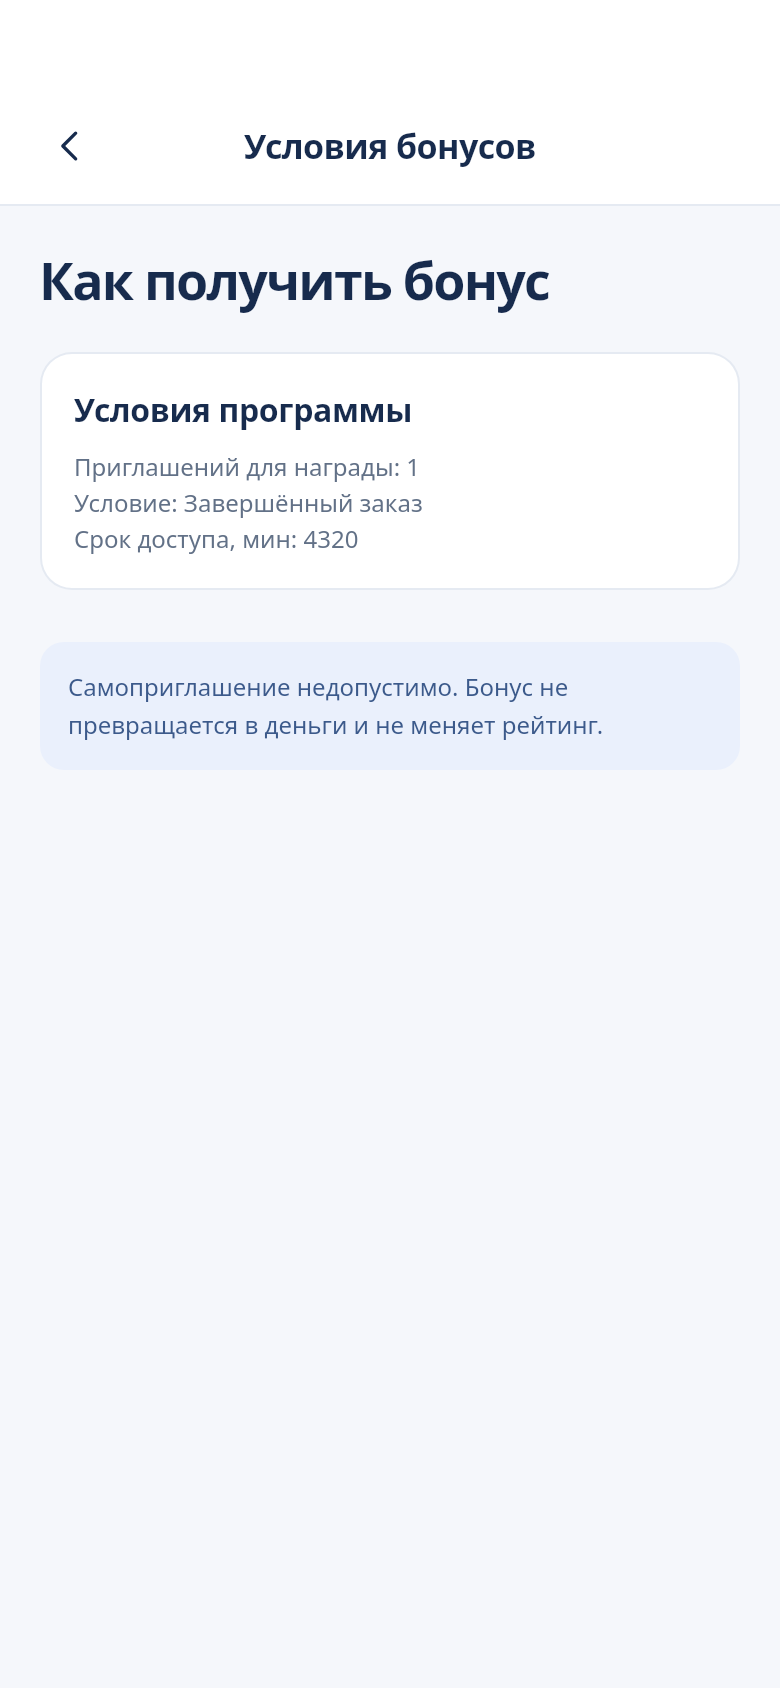
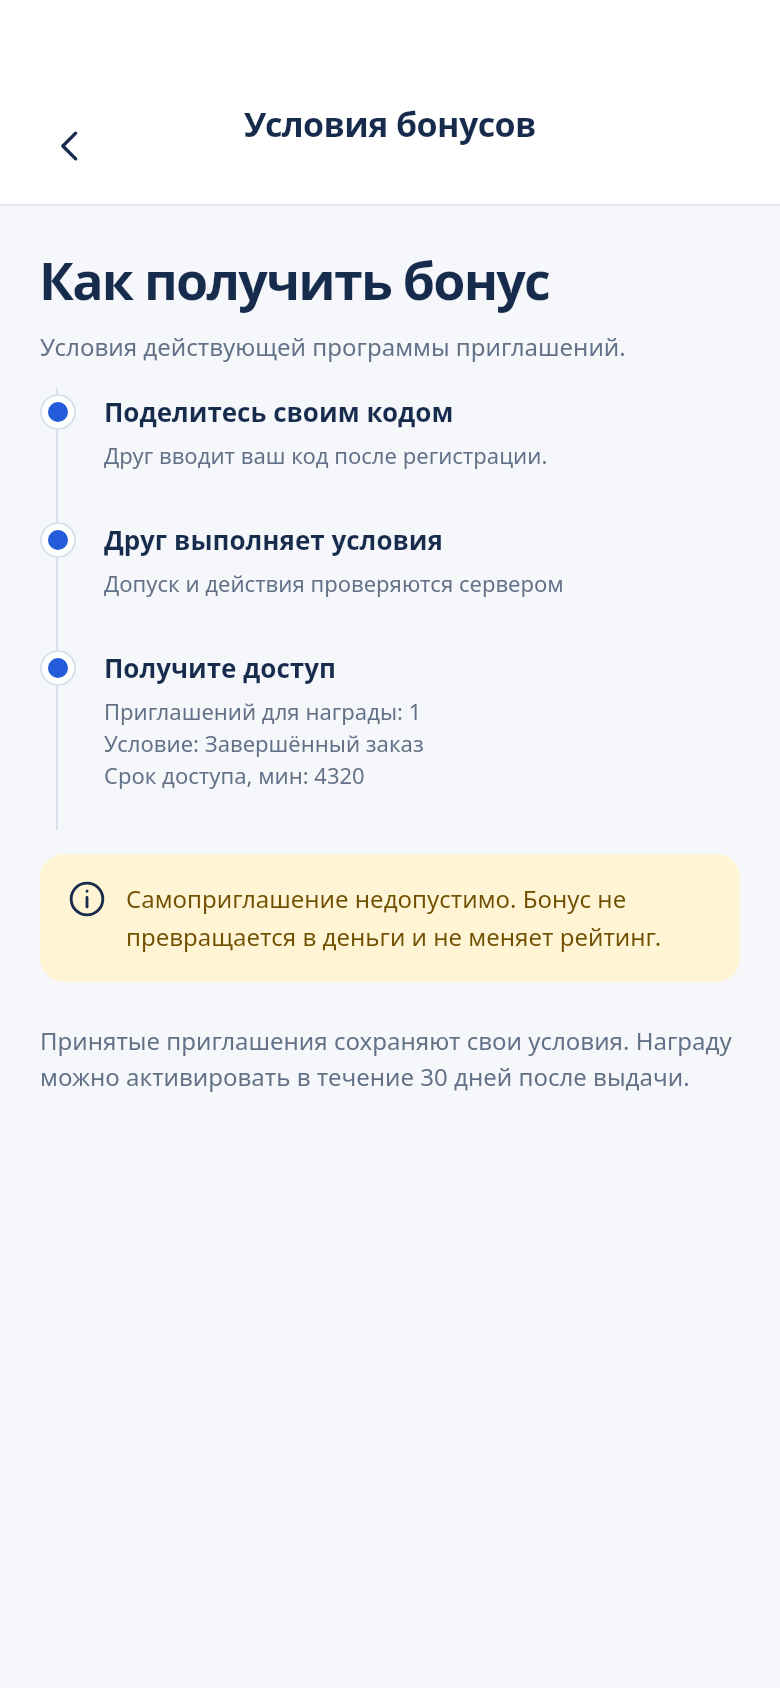
feat: render referral rules as prototype steps with actual campaign terms

diff --git a/apps/mobile/lib/screens/referral_rules.dart b/apps/mobile/lib/screens/referral_rules.dart
@@ -1,0 +1,117 @@
+import 'package:flutter/material.dart';
+import '../core/api.dart';
+import '../core/l10n.dart';
+import '../core/theme.dart';
+import 'referral_terms.dart';
+
+class ReferralRulesContent extends StatelessWidget {
+  final List<Json> campaigns;
+  const ReferralRulesContent({required this.campaigns, super.key});
+  @override
+  Widget build(BuildContext context) => ListView(
+        padding: const EdgeInsets.all(20),
+        children: [
+          const UiText('Как получить бонус',
+              style: TextStyle(
+                  fontSize: 26,
+                  letterSpacing: -.9,
+                  fontWeight: FontWeight.w700,
+                  height: 1.269,
+                  color: navy)),
+          if (campaigns.isNotEmpty)
+            const Padding(
+                padding: EdgeInsets.only(top: 8),
+                child: UiText('Условия действующей программы приглашений.',
+                    style: TextStyle(
+                        fontSize: 12, height: 1.5, color: Color(0xFF627187)))),
+          const SizedBox(height: 12),
+          if (campaigns.isEmpty)
+            const Notice('Активных программ приглашений пока нет.'),
+          for (final campaign in campaigns) ...[
+            const _RuleStep(
+                title: 'Поделитесь своим кодом',
+                description: 'Друг вводит ваш код после регистрации.'),
+            const _RuleStep(
+                title: 'Друг выполняет условия',
+                description: 'Допуск и действия проверяются сервером'),
+            _RuleStep(
+                title: 'Получите доступ',
+                description: referralTerms(context, campaign),
+                translateDescription: false),
+          ],
+          const Notice(
+              'Самоприглашение недопустимо. Бонус не превращается в деньги и не меняет рейтинг.',
+              warning: true,
+              icon: 'info',
+              margin: EdgeInsets.symmetric(vertical: 12)),
+          const SizedBox(height: 8),
+          const UiText(
+              'Принятые приглашения сохраняют свои условия. Награду можно активировать в течение 30 дней после выдачи.',
+              style: TextStyle(
+                  color: Color(0xFF627187), fontSize: 12, height: 1.5)),
+        ],
+      );
+}
+
+class _RuleStep extends StatelessWidget {
+  final String title, description;
+  final bool translateDescription;
+  const _RuleStep(
+      {required this.title,
+      required this.description,
+      this.translateDescription = true});
+  @override
+  Widget build(BuildContext context) => IntrinsicHeight(
+          child: Row(
+        crossAxisAlignment: CrossAxisAlignment.stretch,
+        children: [
+          SizedBox(
+              width: 18,
+              child: Stack(children: [
+                Positioned(
+                    top: 0,
+                    bottom: 0,
+                    left: 8,
+                    child: Container(width: 1, color: const Color(0xFFD9E1EC))),
+                Positioned(
+                    top: 3,
+                    left: 0,
+                    child: Container(
+                        width: 18,
+                        height: 18,
+                        padding: const EdgeInsets.all(3),
+                        decoration: BoxDecoration(
+                            color: Colors.white,
+                            shape: BoxShape.circle,
+                            border: Border.all(color: const Color(0xFFD9E1EC))),
+                        child: const DecoratedBox(
+                            decoration: BoxDecoration(
+                                color: primary, shape: BoxShape.circle)))),
+              ])),
+          const SizedBox(width: 14),
+          Expanded(
+              child: ConstrainedBox(
+                  constraints: const BoxConstraints(minHeight: 64),
+                  child: Padding(
+                      padding: const EdgeInsets.only(top: 2, bottom: 20),
+                      child: Column(
+                          crossAxisAlignment: CrossAxisAlignment.start,
+                          children: [
+                            UiText(title,
+                                style: const TextStyle(
+                                    fontSize: 13,
+                                    height: 1.5,
+                                    fontWeight: FontWeight.w700)),
+                            const SizedBox(height: 4),
+                            Text(
+                                translateDescription
+                                    ? localize(context, description)
+                                    : description,
+                                style: const TextStyle(
+                                    fontSize: 11,
+                                    height: 1.5,
+                                    color: Color(0xFF627187))),
+                          ])))),
+        ],
+      ));
+}

diff --git a/apps/mobile/lib/core/ui_translations.dart b/apps/mobile/lib/core/ui_translations.dart
@@ -4709,4 +4709,43 @@ const uiTranslations = <String, Map<String, String>>{
     "sr": "Код није доступан",
     "be": "Код недаступны"
   },
+  "Условия действующей программы приглашений.": {
+    "kk": "Қолданыстағы шақыру бағдарламасының шарттары.",
+    "sr": "Услови активног програма позивања.",
+    "be": "Умовы дзейнай праграмы запрашэнняў."
+  },
+  "Поделитесь своим кодом": {
+    "kk": "Кодыңызбен бөлісіңіз",
+    "sr": "Поделите свој код",
+    "be": "Падзяліцеся сваім кодам"
+  },
+  "Друг вводит ваш код после регистрации.": {
+    "kk": "Досыңыз тіркелгеннен кейін кодыңызды енгізеді.",
+    "sr": "Пријатељ уноси ваш код након регистрације.",
+    "be": "Сябар уводзіць ваш код пасля рэгістрацыі."
+  },
+  "Друг выполняет условия": {
+    "kk": "Досыңыз шарттарды орындайды",
+    "sr": "Пријатељ испуњава услове",
+    "be": "Сябар выконвае ўмовы"
+  },
+  "Допуск и действия проверяются сервером": {
+    "kk": "Рұқсат пен әрекеттерді сервер тексереді",
+    "sr": "Сервер проверава приступ и радње",
+    "be": "Допуск і дзеянні правяраюцца серверам"
+  },
+  "Получите доступ": {
+    "kk": "Қолжетімділік алыңыз",
+    "sr": "Добијте приступ",
+    "be": "Атрымайце доступ"
+  },
+  "Принятые приглашения сохраняют свои условия. Награду можно активировать в течение 30 дней после выдачи.":
+      {
+    "kk":
+        "Қабылданған шақырулар өз шарттарын сақтайды. Сыйлықты берілгеннен кейін 30 күн ішінде белсендіруге болады.",
+    "sr":
+        "Прихваћене позивнице задржавају своје услове. Награда се може активирати у року од 30 дана од издавања.",
+    "be":
+        "Прынятыя запрашэнні захоўваюць свае ўмовы. Узнагароду можна актываваць на працягу 30 дзён пасля выдачы."
+  },
 };

diff --git a/apps/mobile/test/referral_rules_test.dart b/apps/mobile/test/referral_rules_test.dart
@@ -1,0 +1,46 @@
+import 'package:flutter/material.dart';
+import 'package:flutter_test/flutter_test.dart';
+import '../lib/core/theme.dart';
+import '../lib/screens/referral_rules.dart';
+
+void main() {
+  testWidgets('inactive referral program does not show steps promising access',
+      (tester) async {
+    await tester.pumpWidget(MaterialApp(
+        theme: jobaTheme(),
+        home: const Scaffold(body: ReferralRulesContent(campaigns: []))));
+    expect(
+        find.text('Активных программ приглашений пока нет.'), findsOneWidget);
+    expect(find.text('Получите доступ'), findsNothing);
+  });
+  testWidgets(
+      'real campaign conditions remain readable on narrow screens with enlarged text',
+      (tester) async {
+    tester.view.physicalSize = const Size(320, 900);
+    tester.view.devicePixelRatio = 1;
+    addTearDown(tester.view.resetPhysicalSize);
+    addTearDown(tester.view.resetDevicePixelRatio);
+    await tester.pumpWidget(MaterialApp(
+        theme: jobaTheme(),
+        home: const MediaQuery(
+            data: MediaQueryData(textScaler: TextScaler.linear(1.5)),
+            child: Scaffold(
+                body: ReferralRulesContent(campaigns: [
+              {
+                'threshold': 100,
+                'qualifying_event': 'executor_verified',
+                'reward_duration_seconds': 31622400,
+                'attribution_window_days': 365,
+                'capabilities': [
+                  'search_full',
+                  'send_offer',
+                  'publish_profile'
+                ],
+              }
+            ])))));
+    await tester.scrollUntilVisible(find.textContaining('365 суток'), 100);
+    expect(find.textContaining('Приглашений для награды: 100'), findsOneWidget);
+    expect(find.textContaining('Публикация профиля'), findsOneWidget);
+    expect(tester.takeException(), isNull);
+  });
+}

diff --git a/apps/mobile/lib/screens/marketplace.dart b/apps/mobile/lib/screens/marketplace.dart
@@ -1,7 +1,7 @@
+import 'referral_rules.dart';
 import 'referral_code.dart';
 import 'referral_reward_card.dart';
 import 'referral_hero_decoration.dart';
-import 'referral_terms.dart';
 import 'service_area.dart';
 import '../core/design_states.dart';
 import 'search_filters.dart';
@@ -4630,19 +4630,9 @@ class _MarketplaceState extends State<Marketplace> with WidgetsBindingObserver {
           })));
   Widget referralRulesScreen() => page(
       'Условия бонусов',
-      loaded(
-          '/me/referrals',
-          (data, reload) => listBody([
-                const UiHeading('Как получить бонус'),
-                if ((data['campaigns'] as List).isEmpty)
-                  const Notice('Активных программ приглашений пока нет.'),
-                for (final campaign in (data['campaigns'] as List).cast<Json>())
-                  DataCard('Условия программы',
-                      translateTitle: true,
-                      subtitle: referralTerms(context, campaign)),
-                const Notice(
-                    'Самоприглашение недопустимо. Бонус не превращается в деньги и не меняет рейтинг.')
-              ])));
+      loaded('/me/referrals', (data, reload) => ReferralRulesContent(
+          campaigns: (data['campaigns'] as List).cast<Json>())),
+      titleOffset: -11);
   Widget referralsScreen() => page(
       'Приглашения и бонусы',
       loaded('/me/referrals', (data, reload) {

diff --git a/docs/mobile-referral-terms-update.md b/docs/mobile-referral-terms-update.md
@@ -49,3 +49,13 @@
 Widget-сценарий проходит через JobaApi с изолированным HTTP transport: пустое/длинное значение не отправляется, пробелы обрезаются, запрос блокирует кнопку, отказ сохраняет поле и не вызывает onAccepted, повтор после отказа возвращает только после успешного ответа.
 
 Итоговые проверки ввода: анализ — 0 замечаний; полный набор — 88 успешно, 2 пропущены. После уточнения высоты поля до 52 повторно прошёл сценарий ввода/отказа/повтора и съёмка 115 кадров. S37.redeem обновлён в реестре, визуальная приёмка pending. На сервер не развёрнуто.
+
+## Шаги программы S37.rules
+
+Вместо общей DataCard подключён отдельный `ReferralRulesContent`: три шага с соединяющей линией и синими маркерами, предупреждение с иконкой и пояснение о сохранении принятых условий. Заголовок страницы выровнен по исходнику. В шаге получения доступа раскрыты фактические условия кампании через существующий форматтер (порог, событие, права, срок и окно ввода кода), без демонстрационного обещания «3 дня каждому».
+
+При отсутствии активной кампании показывается пустое состояние без шагов, обещающих доступ. Длинные условия увеличивают высоту шага и доступны прокруткой. Добавлены переводы новых подписей на существующие kk/sr/be. Принятые приглашения и выданные награды не изменяются.
+
+Проверки: анализ без замечаний; 3 теста условий/навигации и 2 теста нового содержимого успешно. Проверены отсутствие обещания при неактивной программе и читаемость полного снимка на ширине 320 с масштабом текста 1.5. Полный мобильный набор не повторялся: изменение ограничено представлением правил.
+
+Итоговая проверка S37.rules: 5 целевых тестов успешно; анализ — 0 замечаний; визуальный набор 115 кадров снят повторно. Снимок и диагностическая метрика обновлены, visual_acceptance остаётся pending. На сервер не развёрнуто.
